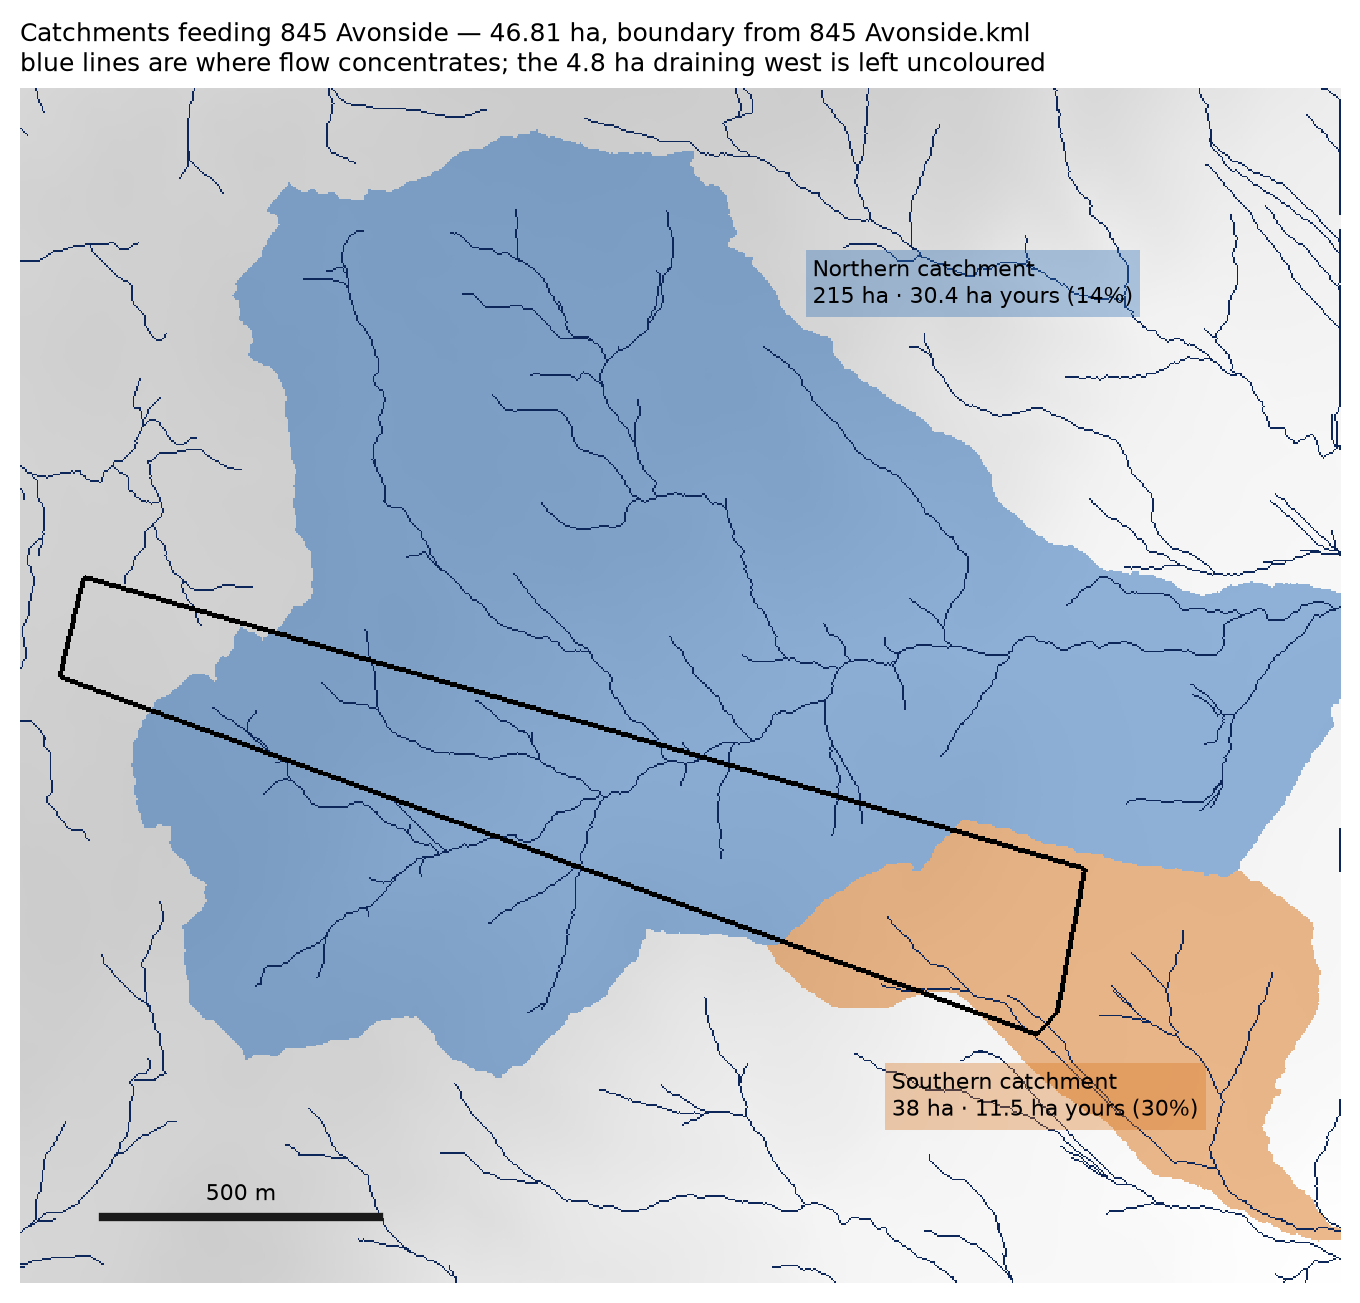
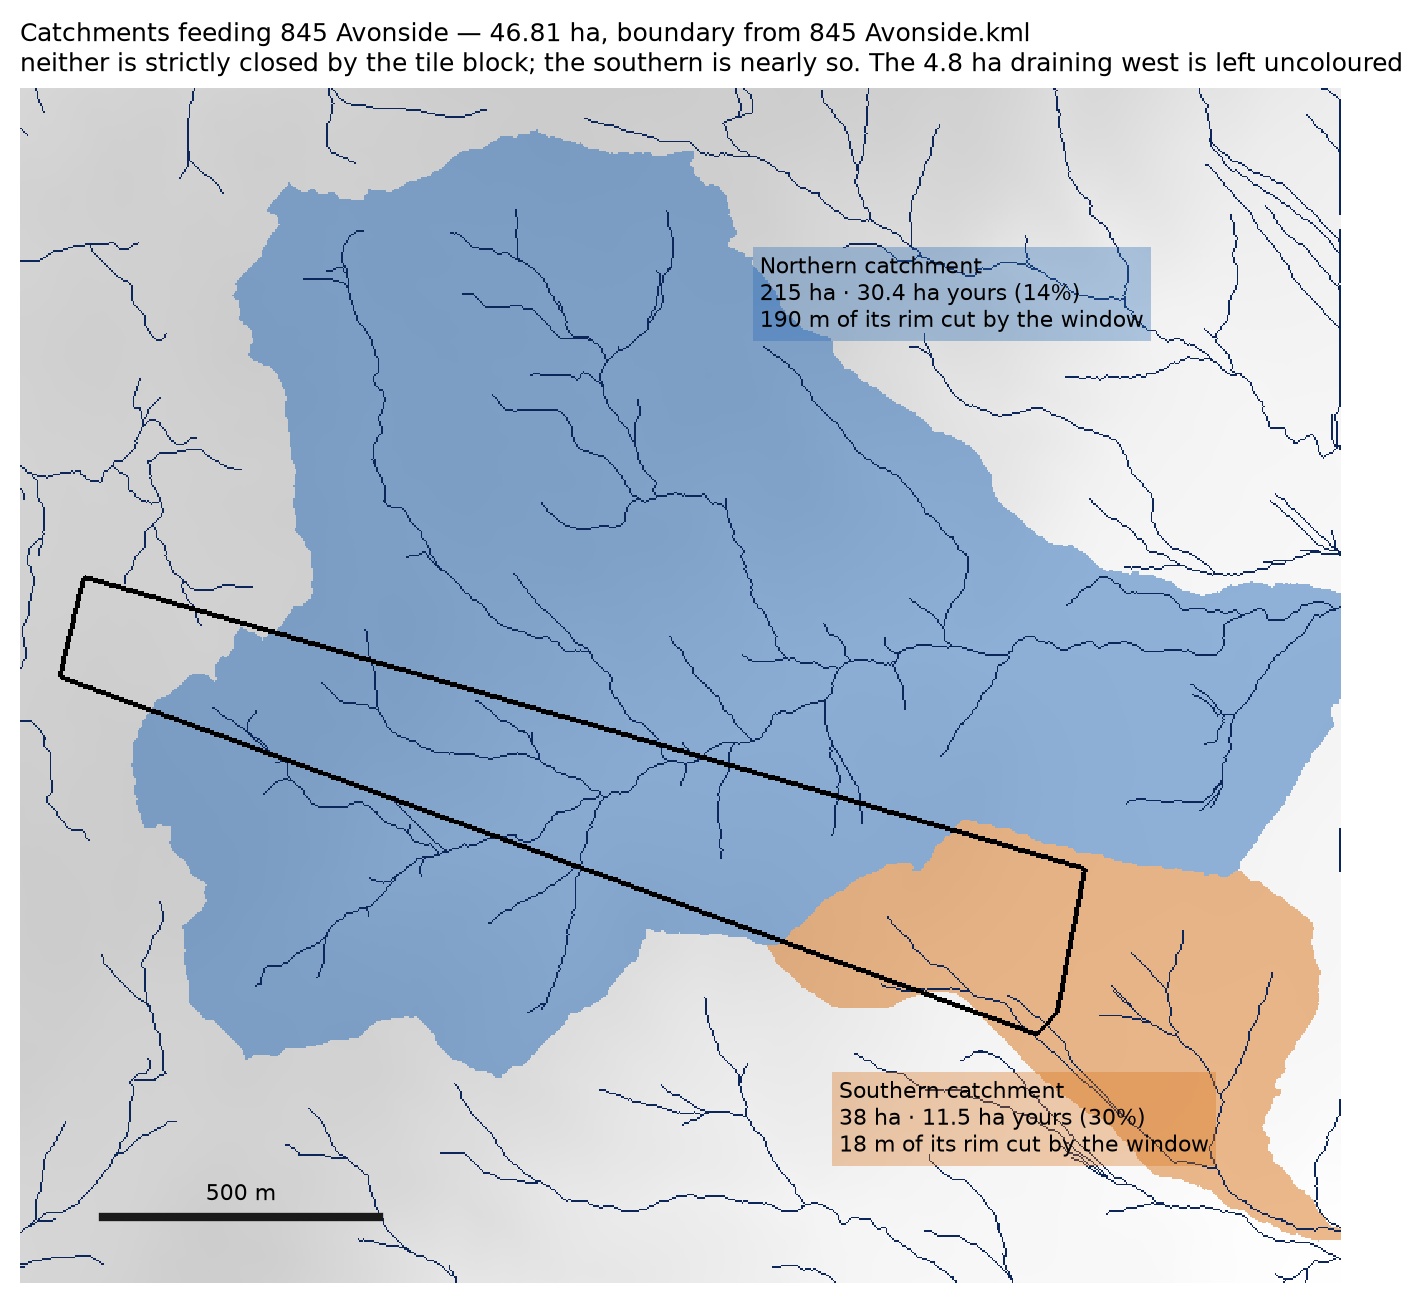
docs: correct the catchment closure claim
The southern catchment was described as closed within the tile block. The
edge test says otherwise: measured as catchment boundary cells falling on the
window edge, the southern loses 18 m of its rim, the northern 189 m and the
western 1794 m. None is strictly closed and all three areas are lower bounds.
The southern remains the nearest thing to a closed water balance, which is the
useful statement; 'closed' was not.

diff --git a/docs/methods.md b/docs/methods.md
@@ -259,12 +259,14 @@ three ways:
 | catchment | area | on the property | outlet | complete? |
 |---|---|---|---|---|
 | Northern | 215 ha | 30.4 ha (14%) | 862 m | slightly clipped |
-| Southern | 38 ha | 11.5 ha (30%) | 811 m | **closed within the window** |
+| Southern | 38 ha | 11.5 ha (30%) | 811 m | nearly closed, 18 m of rim cut |
 | Western | >375 ha | 4.8 ha (1%) | 1021 m | badly truncated |
 
 The share of a catchment lying inside the boundary is what decides whether works
-can change its flow: 30% in the south, 1% in the west. Only the southern
-catchment closes inside the tile block, so it is the only one where a water
-balance can be struck without an open boundary.
+can change its flow: 30% in the south, 1% in the west. NONE of the three is
+strictly closed by the tile block - measured as boundary cells falling on the
+window edge, the southern loses 18 m of its rim, the northern 190 m and the
+western 1.8 km. So the southern is the closest to a water balance without an
+open boundary, but its area is still a lower bound.
 
 ![Catchments feeding the property](catchments_farm.png)

diff --git a/README.md b/README.md
@@ -153,9 +153,10 @@ results.
 ![Catchments feeding the property](docs/catchments_farm.png)
 
 Built from four ELVIS tiles over a 4 x 4 km block, so a catchment can be closed
-instead of stopping at the fence. The southern catchment (38 ha) closes entirely
-within the block and 30% of it lies inside the title boundary; the northern one
-is 215 ha with 14% inside. What you control is what you can change.
+instead of stopping at the fence. The southern catchment (38 ha) is all but closed
+within the block - 18 m of its rim is cut by the window edge, against 190 m for
+the 215 ha northern one - and 30% of it lies inside the title boundary against
+14% in the north. What you control is what you can change.
 
 ![Steepness and wetness, four-tile block](docs/slope_twi_bivariate_4tile.png)
 
